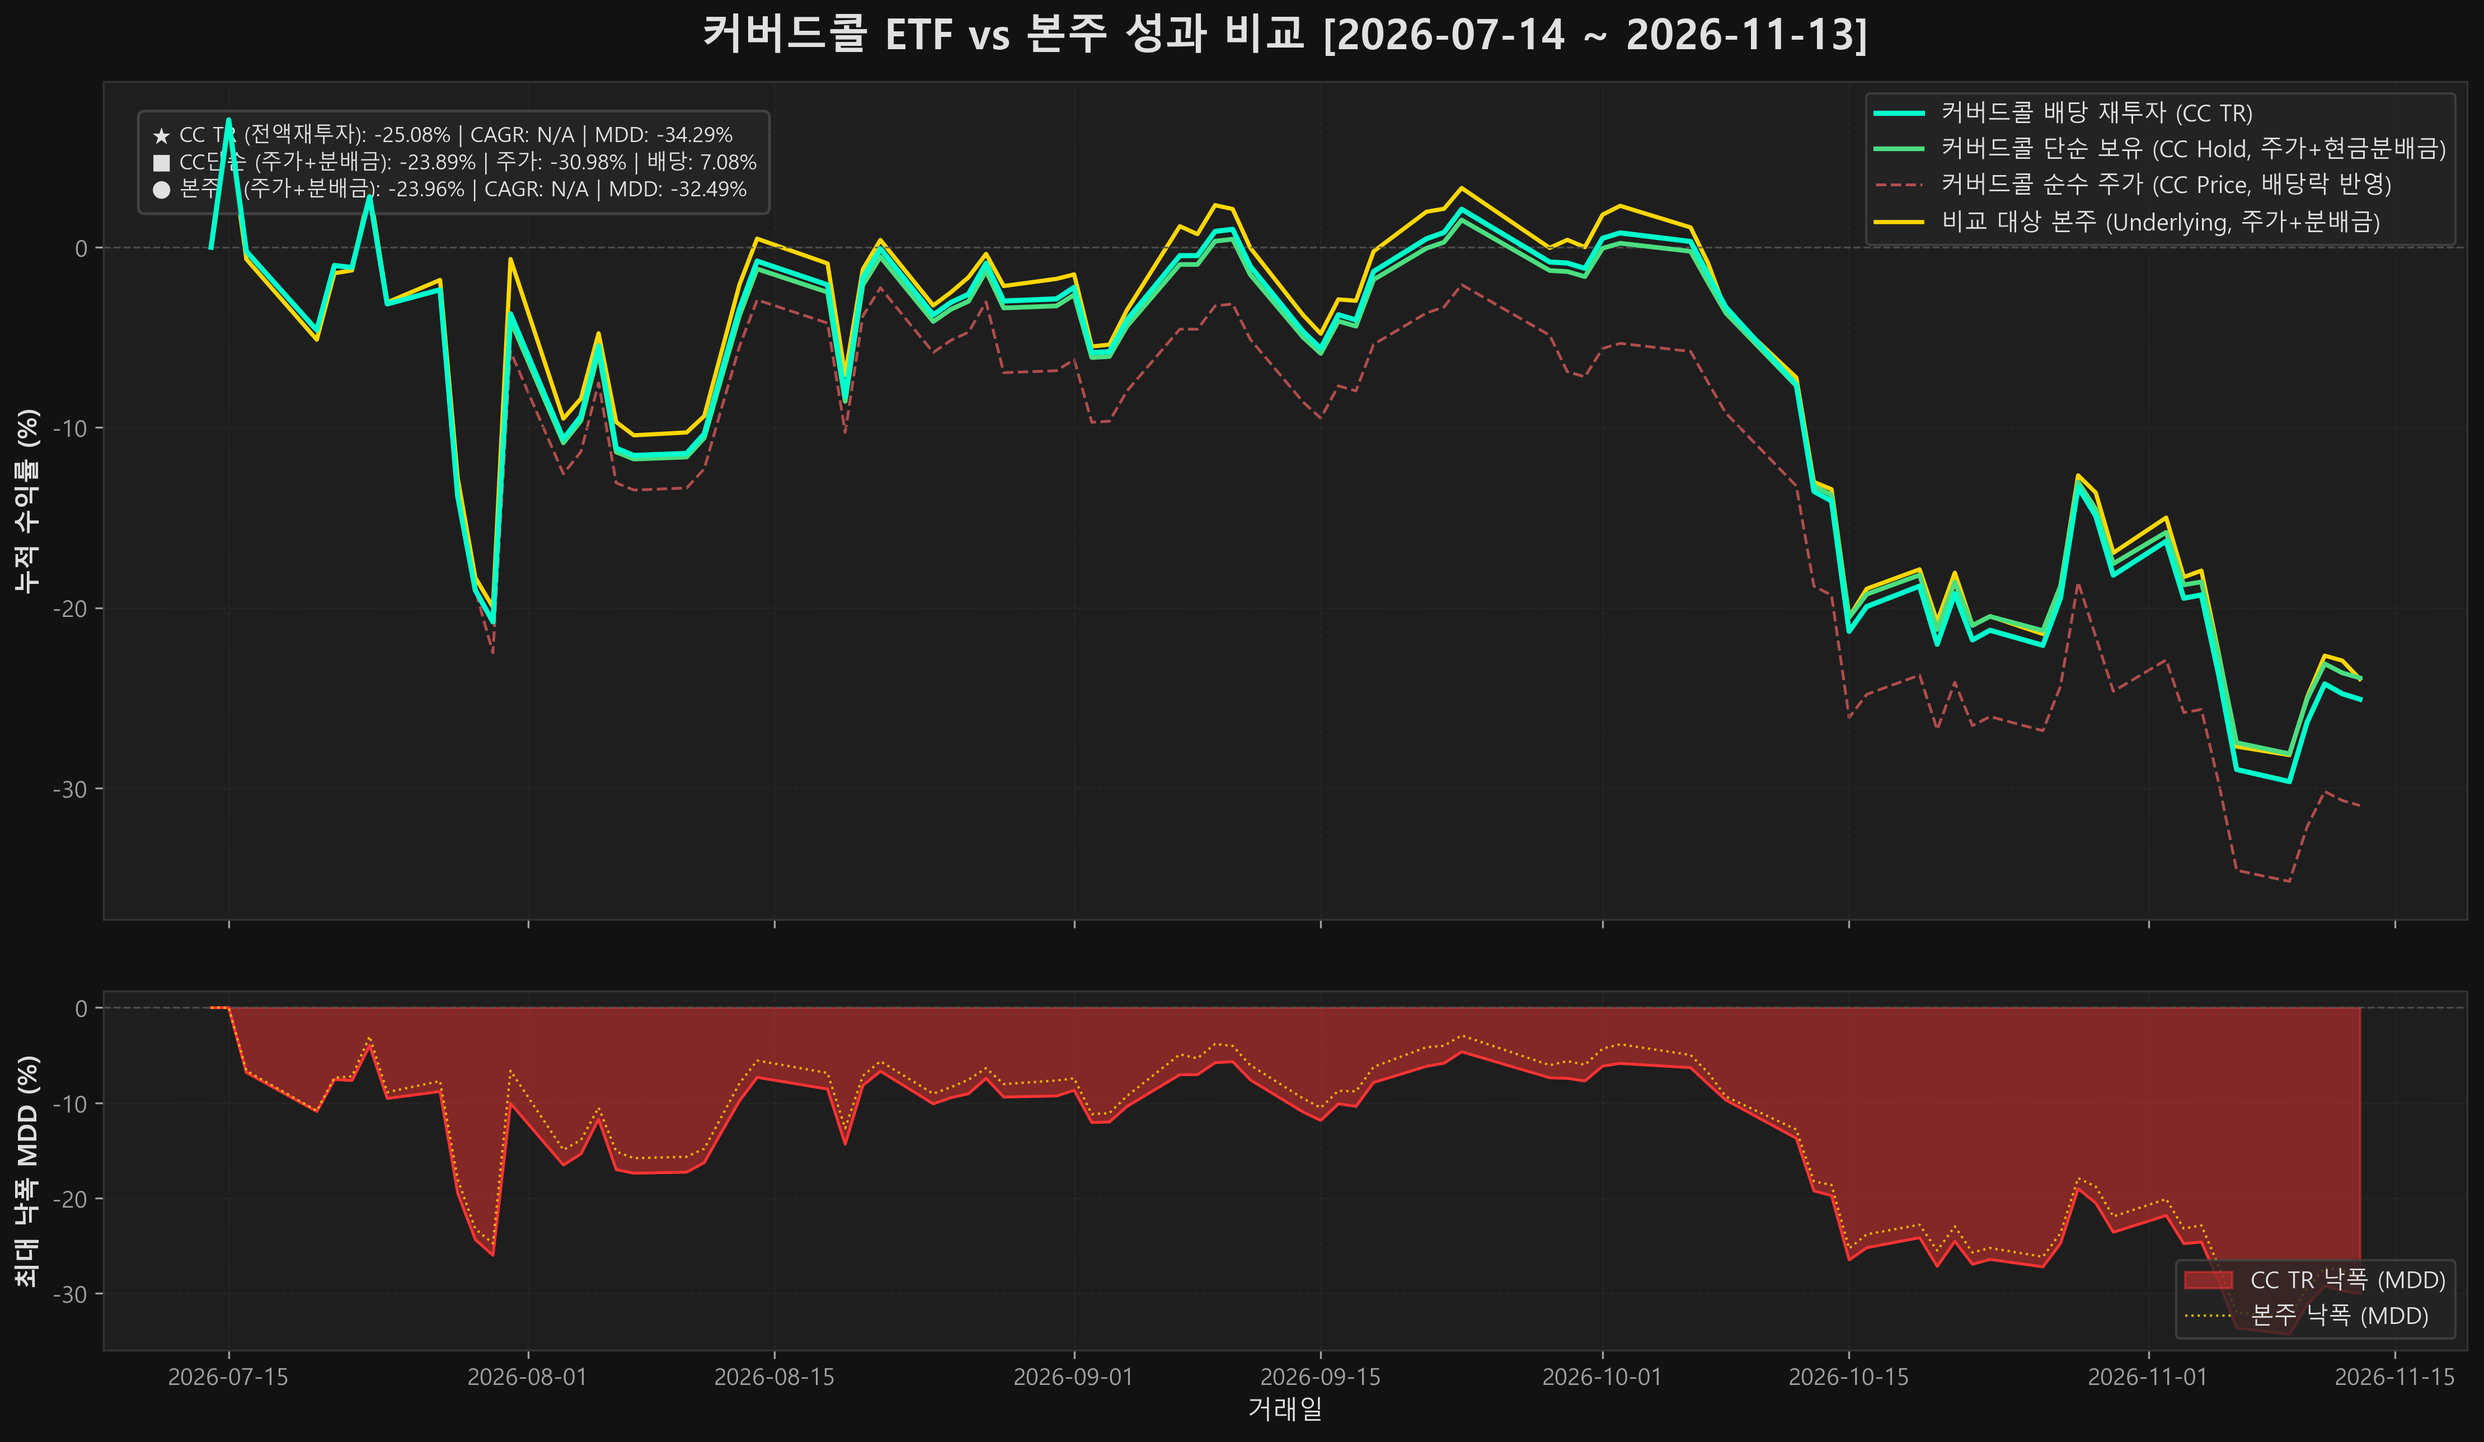
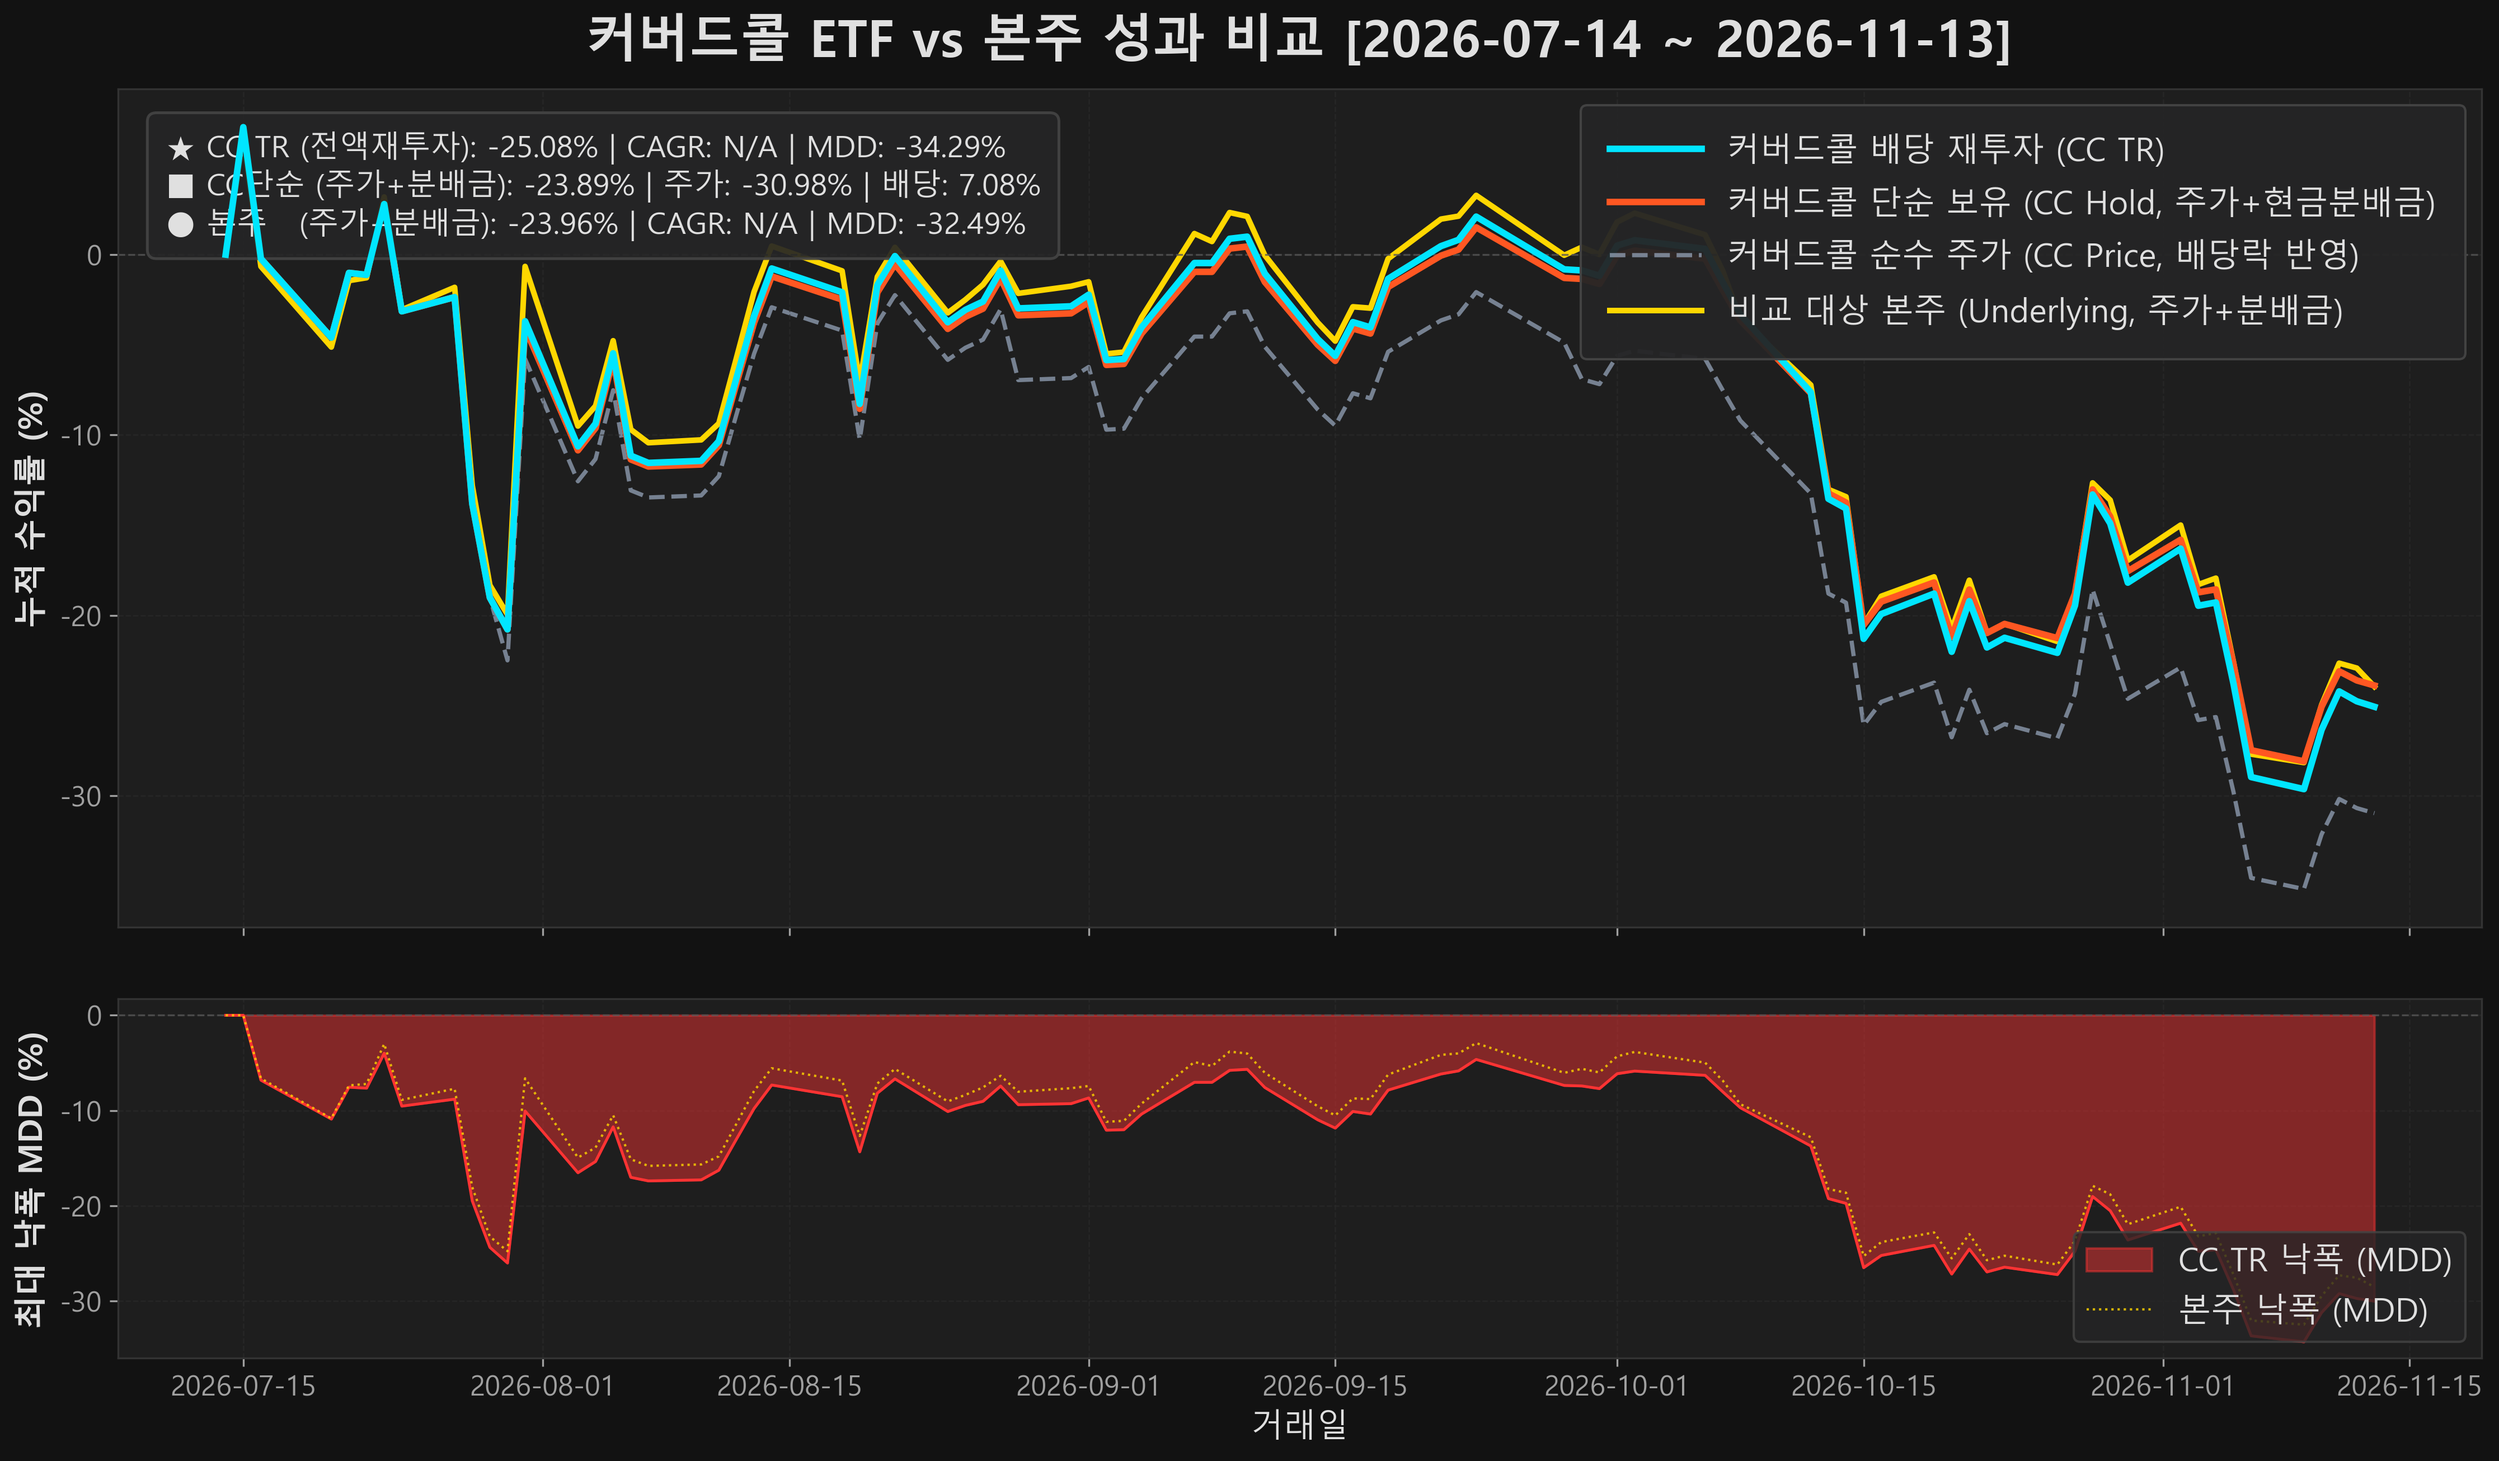
feat(blog): publish daily covered call review [2026-11-15] - Day 2 (국내지수, 2 ETFs: 498400, 0219E0)

diff --git a/_posts/2026-11-15-498400-covered-call-backtest.md b/_posts/2026-11-15-498400-covered-call-backtest.md
@@ -19,7 +19,7 @@ excerpt: 'KODEX 200타겟위클리커버드콜의 1년 실측 종합수익률(TR
 
 ![KODEX 200타겟위클리커버드콜 성과 비교 차트](/assets/img/498400_comparison.png)
 
-> 🔍 **실전 차트 판독 가이드**: 위 그래프에서 **초록색 실선(단순보유 총자산)**과 **회색 점선(순수 주가)** 사이의 간격을 유심히 살펴보시기 바랍니다. 배당락으로 회색 점선(주가)은 아래로 떨어졌지만, 통장에 들어온 현금 분배금을 더한 초록색 실선은 실질적인 내 계좌 자산의 궤적을 증명합니다. 두 선 사이의 벌어진 틈새가 바로 **우리가 1년간 실제로 챙긴 누적 현금 배당의 실체**입니다.
+> 🔍 **실전 차트 판독 가이드**: 위 그래프에서 **비비드 오렌지 실선(단순보유 총자산)**과 **회색 점선(순수 주가)** 사이의 간격을 유심히 살펴보시기 바랍니다. 배당락으로 회색 점선(주가)은 아래로 떨어졌지만, 통장에 들어온 현금 분배금을 더한 오렌지색 실선은 실질적인 내 계좌 자산의 궤적을 증명합니다. 두 선 사이의 벌어진 틈새가 바로 **우리가 1년간 실제로 챙긴 누적 현금 배당의 실체**입니다.
 
 
 ## 1. 성과 요약

diff --git a/_posts/2026-11-15-0219E0-covered-call-backtest.md b/_posts/2026-11-15-0219E0-covered-call-backtest.md
@@ -19,7 +19,7 @@ excerpt: 'KODEX 200커버드콜액티브의 1년 실측 종합수익률(TR), 누
 
 ![KODEX 200커버드콜액티브 성과 비교 차트](/assets/img/0219E0_comparison.png)
 
-> 🔍 **실전 차트 판독 가이드**: 위 그래프에서 **초록색 실선(단순보유 총자산)**과 **회색 점선(순수 주가)** 사이의 간격을 유심히 살펴보시기 바랍니다. 배당락으로 회색 점선(주가)은 아래로 떨어졌지만, 통장에 들어온 현금 분배금을 더한 초록색 실선은 실질적인 내 계좌 자산의 궤적을 증명합니다. 두 선 사이의 벌어진 틈새가 바로 **우리가 1년간 실제로 챙긴 누적 현금 배당의 실체**입니다.
+> 🔍 **실전 차트 판독 가이드**: 위 그래프에서 **비비드 오렌지 실선(단순보유 총자산)**과 **회색 점선(순수 주가)** 사이의 간격을 유심히 살펴보시기 바랍니다. 배당락으로 회색 점선(주가)은 아래로 떨어졌지만, 통장에 들어온 현금 분배금을 더한 오렌지색 실선은 실질적인 내 계좌 자산의 궤적을 증명합니다. 두 선 사이의 벌어진 틈새가 바로 **우리가 1년간 실제로 챙긴 누적 현금 배당의 실체**입니다.
 
 
 ## 1. 성과 요약
